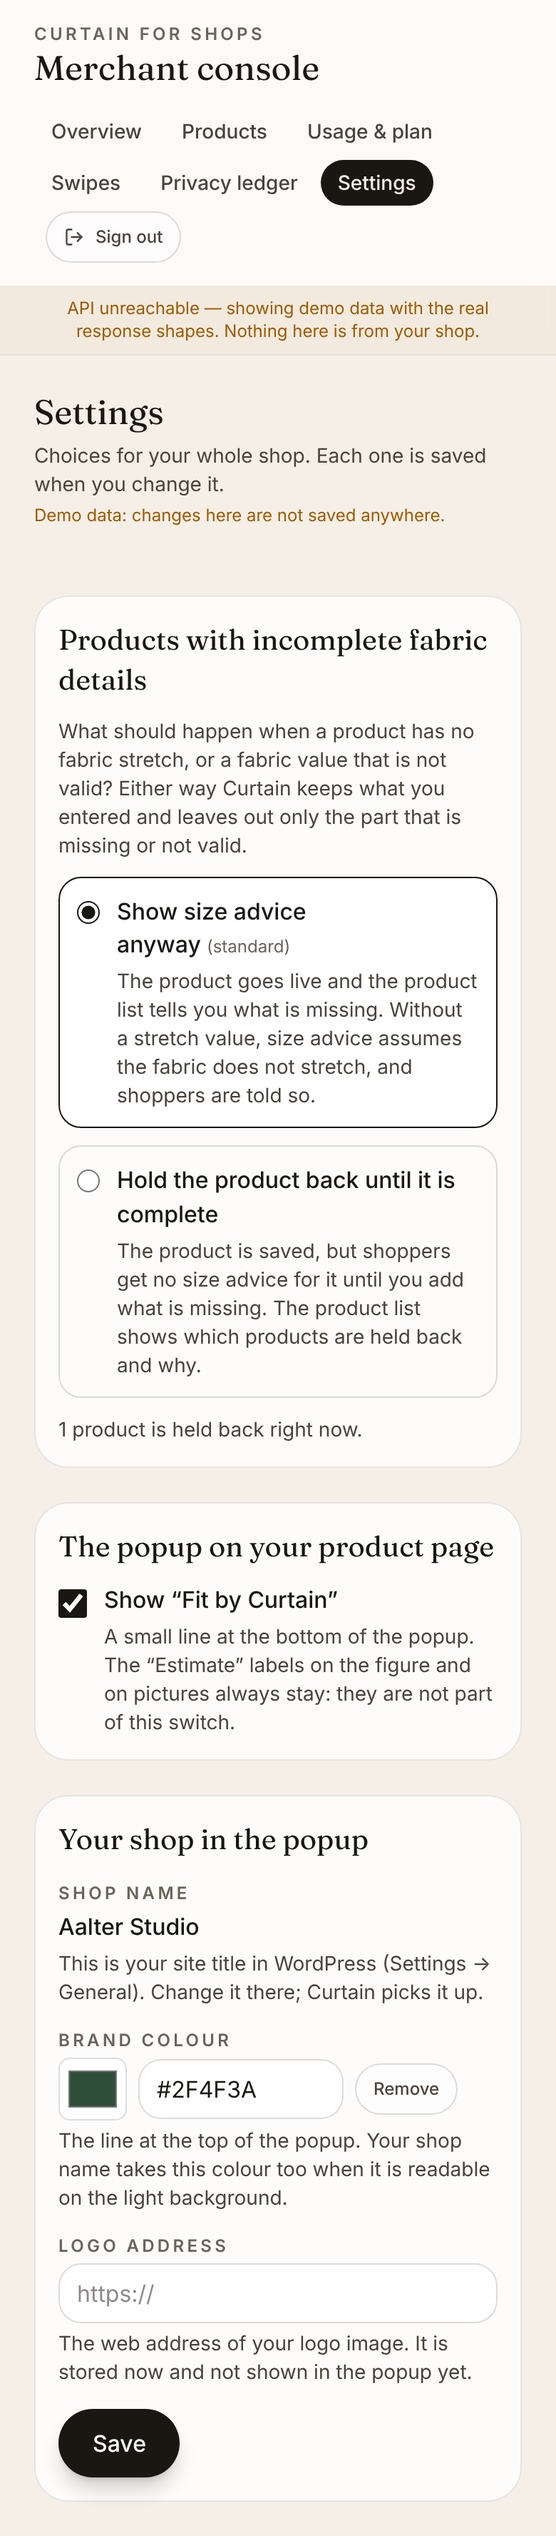
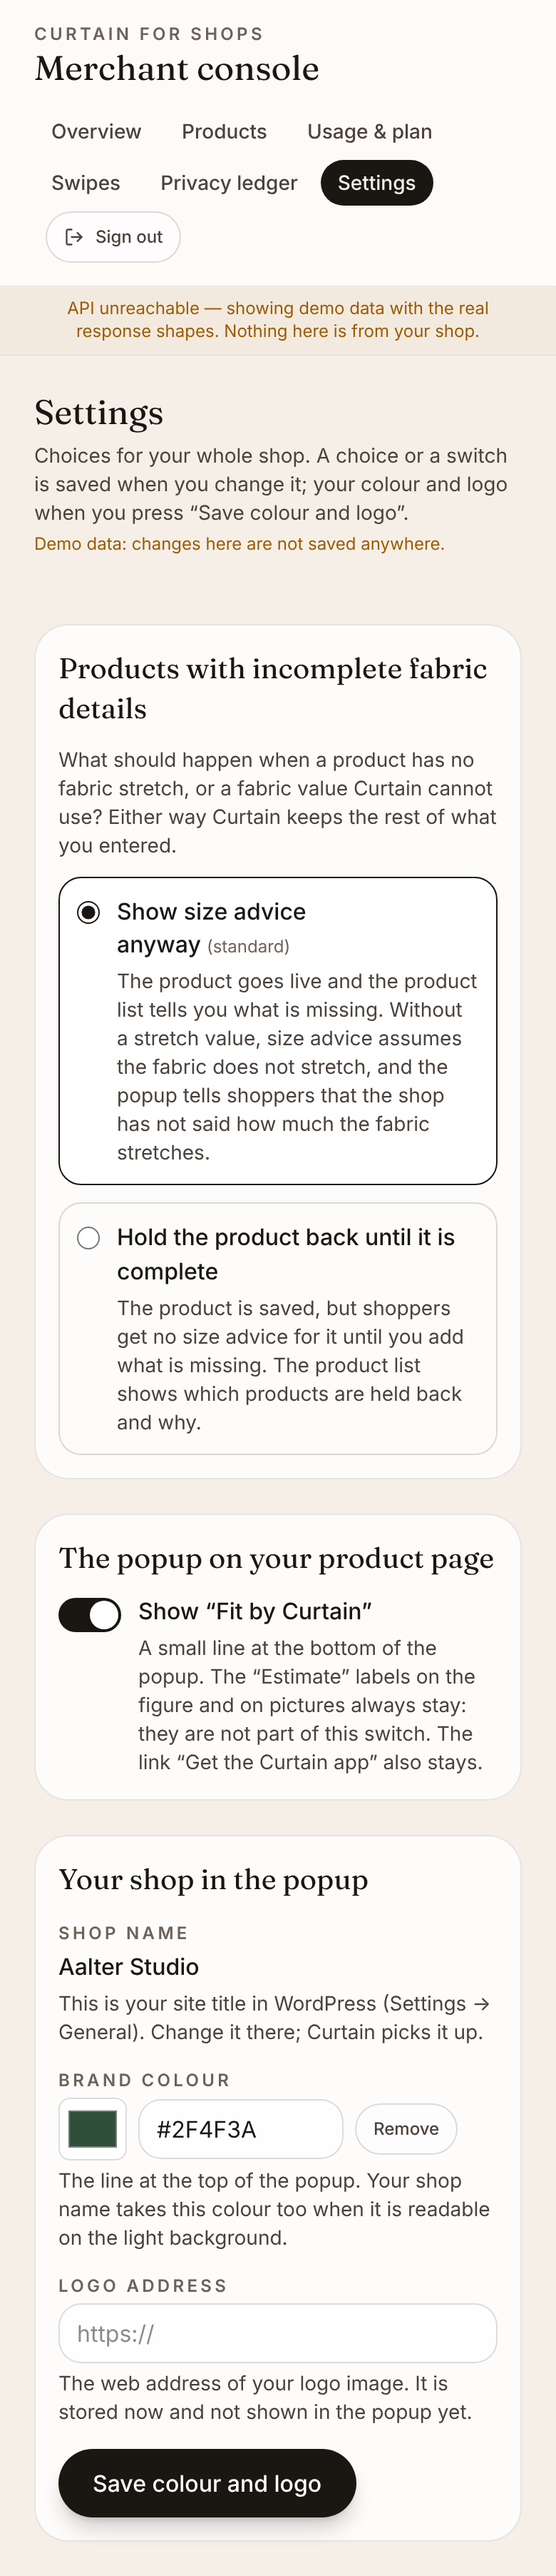
docs: screenshots of settings slice 1 retaken after the review; open issues OI-111 to OI-118; STATUS follows the slice
Claude-Session: https://claude.ai/code/session_0137s5bMAZBmWXYo2fF6Ys2b

diff --git a/docs/OPEN-ISSUES.md b/docs/OPEN-ISSUES.md
@@ -10,6 +10,7 @@ Compiled on 19 Nov 2026 from the reports listed below; issues that a later repor
 | head-v3 | `docs/reports/claude-head-v3.md` | Open issues, Verdict |
 | platform-checks | `docs/reports/claude-platform-checks.md` | Open issues |
 | ai-realism | `docs/reports/claude/ai-realism.md` | Not done, and why |
+| settings-slice1 | `docs/reports/claude/settings-slice1.md` | Measured versus assumed, Not done |
 | analytics-kfloor | `docs/reports/claude/analytics-kfloor.md` | Measured, assumed, not covered; Other open findings of the launch-readiness report |
 | bake-qa-gate | `docs/reports/claude/bake-qa-gate.md` | Measured, assumed, not done; Open issues |
 | face-2d | `docs/reports/claude/face-2d-slice5.md` | Assumed, not measured; Honest look; Open issues |
@@ -34,7 +35,7 @@ Marks: **needs-founder** (a decision or an action only the founder can take), **
 **needs-real-device** (needs a real phone, real GPU, paid provider, real Shopify store, real VPS, real garment or real volunteers),
 **engineering** (can be done in the repository). Each row has exactly one mark. "Size" is a guess.
 
-Counts: needs-founder 18, needs-counsel 7, needs-real-device 16, engineering 68. Total 109 open rows.
+Counts: needs-founder 17, needs-counsel 8, needs-real-device 16, engineering 75. Total 116 open rows.
 
 ## needs-founder
 
@@ -49,7 +50,6 @@ Counts: needs-founder 18, needs-counsel 7, needs-real-device 16, engineering 68.
 | OI-07 | Pilot price arrangement: a custom app cannot bill through Shopify, so write down with the merchant either a free pilot or USD 8.99 a month invoiced outside Shopify. Trial length (`BILLING_TRIAL_DAYS`, default 7) is only needed for public billing. | open | STATUS (pilot table, decision 8), launch-readiness (F8) |
 | OI-08 | `@curtain/sdk` is `UNLICENSED` but ships inside a WordPress.org plugin, which must be GPL-compatible (#14). A founder and legal call, needed before a WP.org listing. | open | STATUS (decision 8, Known gaps) |
 | OI-09 | The WooCommerce plugin slug `curtain-woocommerce` breaks the WordPress.org trademark rule (Plugin Check warning). Decide a new slug before listing. | open | platform-checks |
-| OI-10 | WooCommerce: a product with a fabric but no drape is refused as a whole (400). The merchant now sees why. Decide whether the payload builder should leave out an incomplete fabric instead. | open | platform-checks |
 | OI-11 | A WooCommerce merchant cannot get into the merchant console alone: Connect stores the secret key encrypted and never shows it, and the console asks for it. Decide: a one-time console link from the plugin, or show the key once. | open | merchant-onboarding (1) |
 | OI-12 | WooCommerce Disconnect only clears local settings; it does not cancel billing or delete the shop on the api. A `DELETE /v1/merchant/shops/self` with a Stripe cancel would close it; decide whether deletion is immediate or delayed. | open | merchant-onboarding (2) |
 | OI-13 | Lighting and skin shading defaults. D22 keeps `classic` lighting until the founder approves a change. Under `classic` the male under-jaw of head v3 is 13–14 L\* dark and Monk 1–3 stay grey-white; `neutral-v2` fixes both. skin-v2 is ready for the look review and is off by default. Both reports recommend deciding after one real-phone check. | open | head-v3 (1, Verdict), skin-v2 (1, Verdict) |
@@ -70,6 +70,7 @@ Counts: needs-founder 18, needs-counsel 7, needs-real-device 16, engineering 68.
 | OI-22 | The men's body size-chart templates are held back for legal review. Two blank men's garment templates are offered; the body templates are not. | open | men-admin-columns, STATUS (What is built) |
 | OI-23 | What the MediaPipe usage-log message (`odml.pa.googleapis.com/v1/log`) holds was never decoded (from the code: task type, running mode, timings). It is now refused twice, but it deserves a line in the privacy terms review. | open | privacy-wall (5), face-on-head |
 | OI-24 | Licence confirmations made by an agent, not a lawyer: the Anny row in `docs/LICENSES.md` comes from the spike's tool table, not the upstream licence file; the Monk swatch values and licence were checked against Wikipedia's citation, not Google's page; licences beyond the two MediaPipe sources were not read at source. | open | analytics-kfloor, skin-v2 (7), face-on-head (Assumed) |
+| OI-111 | `docs/legal/terms.md` (paused plan: the button is hidden) and `docs/legal/privacy.md` (no age range is asked) were edited in claude/settings-slice1 to follow D25 points 5 and 6. The wording has not had the review of D20 point 4 and must not ship as final before it. | open | settings-slice1 (Not done) |
 
 ## needs-real-device
 
@@ -164,6 +165,13 @@ Counts: needs-founder 18, needs-counsel 7, needs-real-device 16, engineering 68.
 | OI-107 | With length held, a free-hanging skirt shows less difference between sizes: on the dress, AU 8 against 16 at the hip 52 → 21 % of the graded spread, 10 cm lower 48 → 22 %; forced on, the skirt stand-in's hem 53 → 14 %. The hip balloon of before stood on the extra length. R3 needs the cut's own flare or a calibrated drape, not stretch. | medium | open | cloth-hang (Measured, 1) |
 | OI-108 | The tape-built dress still needs its three holds with length held (seam 98.6 cm for a tape of 86 without the loop; top edge 3.1 cm lower without the held band). The gathering row now carries the skirt: stitch strain up to 9 %, the row 7 % short (was 5 to 6 %), and thin slits open between the folds under the seam (body pixels through the skirt 0 to 33 → 0 to 71 per four views). The seam loop and the hang lines pull against each other by 0.2 to 0.3 cm of seam girth. | medium | open | dress-from-tape (1), cloth-hang (Did it remove a hint?, 3, 4, 5) |
 | OI-109 | Hold length was not measured on the real photo-reconstructed bundles (skirt, azure dress, palazzo: `out/eval/` is git-ignored; stand-ins were used) and is off for them. Forced on, the men's tee gets a higher peak strain (25.8 to 30.2 → 38.0 to 64.6 %) and stops settling early, so a sewn top must not get it as built. The spike viewer's `cloth.ts` has no hang lines. | small | open | cloth-hang (7, 8, 11) |
+| OI-112 | The size peek next to the button shows a size computed with an assumed 0 % stretch without saying so: `GET /v1/peek` does not carry `stretchAssumed` and the peek's box is a fixed 112 px. The popup says it; the Settings text now says "the popup tells shoppers". | small | open | settings-slice1 (Not done) |
+| OI-113 | The warnings of the two product builders (`mappings/common.ts` and the PHP twin, among them "…; the value was left out") are English sentences written in the mapping code, in no catalogue (D21). The WooCommerce product screen and the console no longer show the validator's text for a left-out fabric value; every other place a builder warning is shown was not traced. | medium | open | settings-slice1 (Not done) |
+| OI-114 | The SDK is 8,187 B gzip of an 8,192 B budget (5 B left) after the paused-shop change; one console warning was shortened to fit. The next SDK change needs bytes taken out or the budget raised. | small | open | settings-slice1 (Measured) |
+| OI-115 | The button printed hidden (`hidden` on `.curtain-try`, shown by the SDK) is tested in jsdom and by reading the markup only. Not looked at on a real Shopify theme or WooCommerce theme: first paint, a theme rule that sets `display` on the wrapper, the theme editor, a page cache that serves old markup with a new SDK. | small | open | settings-slice1 (Not done) |
+| OI-116 | `PUT /shopify/products/:id/chart` now keeps the fabric parts the product already has. So when a description names another fibre than the stored one, the old stretch and drape stay with the new name, and the import form does not say the product already has a fabric. Costs one more Admin API read per write that carries a fabric. | small | open | settings-slice1 (Not done) |
+| OI-117 | The console asks for a logo address and stores it; the popup does not draw it. Either draw it or take the field out. | small | open | settings-slice1 (Not done) |
+| OI-118 | A held-back product on the hero-render and AI-realism routes is tested through `asGarment` and the app's product route, not by a request to those two routes. A `fabric` sent as `null`, a list or text is still a 400 on the merchant PUT (request validation); the PHP builder never sends one. | small | open | settings-slice1 (Not done) |
 
 ## Resolved since reported
 
@@ -186,3 +194,5 @@ Counts: needs-founder 18, needs-counsel 7, needs-real-device 16, engineering 68.
 | The gate fixture `packages/garment-viewer/fixtures/pom-v2-rest` drapes AU 8 on hip 104. | orchestrator brief | pom-gate review: fixture rebuilt with the bake's plan | verified: `base.glb` declares AU 8 `notDraped` with `rule: 'pull-on'` on hips 99, 104, 109 and 114, draped on 94 only |
 | The bake gate does not check pull-on against the tape. | orchestrator brief | pom-gate review: `refusals_declared` in `bakeGate.ts` runs the fit engine's `pullOnCheck` with the tape's stretched band on every draped body and every `pull-on` refusal | verified: code read, `bakeGate.test.ts` passes (two pull-on cases). A refusal with another reason is still only required to state one (OI-56) |
 | The not-drawn rule covered sewn tops only; every other bundle drew a stretched garment on a body it does not close on (was OI-95). Also: the tape-built dress too small was drawn stretched. | men-tee-v2, dress-from-tape (3) | dress-not-drawn: one rule for every garment from the fit engine's `wearBlock` (`packages/garment-viewer/src/notDrawn.ts`, `apps/web/src/embed/notDrawn.ts`), in 3D and on the 2D figure | verified: unit tests per garment, `dressNotDrawn.spec.ts` in the built embed, the dress, tee and chino in the real stack. Not seen in a browser on the azure dress, photo skirt or the bake (OI-101) |
+| WooCommerce: a product with a fabric but no drape was refused as a whole (400) (was OI-10). | platform-checks | settings-slice1, D24 point 4 and D25 point 1: draft fabric parts are optional, only a part that is not valid is left out, and the shop chooses let through or hold back | verified: `apps/api/src/incomplete-fabric.test.ts` (plain api, Shopify mapping, WooCommerce payload), PHP parity fixtures |
+| A paused shop kept its button and showed a "shop paused" screen (D7); the first screen asked an age range nothing used. | D25 points 5 and 6 | settings-slice1: the SDK hides the button, printed hidden by both plugins; the question is gone | verified in tests (`packages/sdk/src/paused.test.ts`, `apps/web/src/embed/__tests__/settingsSlice1.test.tsx`); not seen on a real theme (OI-115) |

diff --git a/docs/STATUS.md b/docs/STATUS.md
@@ -49,13 +49,13 @@ shoppers see.
 |---|---|
 | `@curtain/fit-engine` | Pure, zero runtime dependencies, on-device only (rule 4). Pull-on check and waist reading from a measured band (merchant tape). Men's fit (M2a/M2b, merged): neck, sleeve, body length, rise, W/L sizes, men's eases, all gated on `audience: 'men'`; every women's and unisex chart reads byte for byte as before. Every men's number is assumed until three real charts per block are read |
 | `@curtain/schema` | Wire types; garment payload; optional garment tape per size with provenance; size-chart templates (AU women's; two blank men's garment templates, tee and chino W/L; the men's body templates held back for legal review); men's chart columns (`chartColumns.ts`), read by both merchant builders; audience inference |
-| SDK (`@curtain/sdk`) | Button → overlay iframe on `/embed/<token>`, exact-origin postMessage, variant selection for Dawn and WooCommerce, size peek (fixed 112 px, no shopper data). 8,057 B gzip of an 8,192 B budget |
-| Embed (`apps/web` `/embed`) | About you, optional scan, result with avatar and size rings, "Choose size", Remember me / Forget me, avatar prompt with neutral face and skin-tone picker (colour stays in memory), optional 3D estimate (viewer chunk 165.9 KB gzip of 400 KB). Face photo off in builds (`VITE_AVATAR_FACE_PHOTO`), hero render hidden (the api does not send `heroRenders`). Men's garments: About you asks chest, waist, seat, inside leg, neck, sleeve; the result names the men's points and W/L. A W/L result whose leg could not be checked names the waist in the heading, the fit panel, the 3D label and the size peek (this branch). A size whose band does not go over the shopper's hips is not drawn in 3D and the note says why. Interface text: every string of `apps/web` is in a catalogue (this branch, see "Interface language") |
-| api (`apps/api`) | Fastify 5, Postgres 16, pg-boss. Devices, try tokens, fit-shown billing event, peek, merchant API (HMAC/Bearer/session token), analytics with a k floor in closed, frozen calendar months with complementary suppression (D23), Shopify (token exchange, webhooks incl. GDPR, metafields, chart builder, garment tape), Stripe Connect path for Woo, asset import with the automatic bake check (9 checks; a failing bake is refused with a plain reason, pull-on recomputed from the tape) and merchant approval, men's gate (`MEN_3D_GATE`), hero render jobs (avatar image only), the AI realism route (`AI_REALISM`, fake provider only so far), `GET/PUT /v1/merchant/setup` (the five-step checklist). The request log carries route patterns only (L1) |
-| Shopify app | Embedded admin page with the "Get set up" checklist, chart builder (men's columns and W/L included) and tape entry, "Try it on" theme block, `shopify-deploy` workflow. Offline contract harness against a fake Shopify, requests validated against the real 2026-10 Admin schema (9 Nov) |
-| WooCommerce plugin | "Get set up" box, meta box with chart templates (men's columns and W/L included) and tape, PK-HMAC push via Action Scheduler, bundled SDK button under the variation form, Connect with domain proof, uninstall. PHP 8.1+, WordPress 6.6+, WooCommerce 9.0+ |
+| SDK (`@curtain/sdk`) | Button → overlay iframe on `/embed/<token>`, exact-origin postMessage, variant selection for Dawn and WooCommerce, size peek (fixed 112 px, no shopper data). A paused shop shows no button (D25 point 5): the plugins print the button hidden and the SDK shows it after `GET /v1/sdk/shop` says the plan is not paused. 8,187 B gzip of an 8,192 B budget (OI-114) |
+| Embed (`apps/web` `/embed`) | About you, optional scan, result with avatar and size rings, "Choose size", Remember me / Forget me, avatar prompt with neutral face and skin-tone picker (colour stays in memory), optional 3D estimate (viewer chunk 165.9 KB gzip of 400 KB). Face photo off in builds (`VITE_AVATAR_FACE_PHOTO`), hero render hidden (the api does not send `heroRenders`). Men's garments: About you asks chest, waist, seat, inside leg, neck, sleeve; the result names the men's points and W/L. A W/L result whose leg could not be checked names the waist in the heading, the fit panel, the 3D label and the size peek (this branch). A size whose band does not go over the shopper's hips is not drawn in 3D and the note says why. Interface text: every string of `apps/web` is in a catalogue (this branch, see "Interface language"). Settings slice 1 (20 Nov): no age-range question, one line under the size when the shop gave no fabric stretch, "Fit by Curtain" hidden when the shop switched it off (the estimate labels stay) |
+| api (`apps/api`) | Fastify 5, Postgres 16, pg-boss. Devices, try tokens, fit-shown billing event, peek, merchant API (HMAC/Bearer/session token), analytics with a k floor in closed, frozen calendar months with complementary suppression (D23), Shopify (token exchange, webhooks incl. GDPR, metafields, chart builder, garment tape), Stripe Connect path for Woo, asset import with the automatic bake check (9 checks; a failing bake is refused with a plain reason, pull-on recomputed from the tape) and merchant approval, men's gate (`MEN_3D_GATE`), hero render jobs (avatar image only), the AI realism route (`AI_REALISM`, fake provider only so far), `GET/PUT /v1/merchant/setup` (the five-step checklist). The request log carries route patterns only (L1). Settings slice 1: a fabric with a missing or not-valid part is stored without that part and reported (`notices`); the shop setting `incompleteProductData` lets such a product through (standard) or holds it back (stored, 200, served on no shopper route); `GET`/`PUT /v1/merchant/settings`; a bad product no longer stops a Shopify backfill page |
+| Shopify app | Embedded admin page with the "Get set up" checklist, chart builder (men's columns and W/L included) and tape entry, "Try it on" theme block, `shopify-deploy` workflow. Offline contract harness against a fake Shopify, requests validated against the real 2026-10 Admin schema (9 Nov). The description import saves fibre names only (the stretch estimate is an unticked suggestion) and a fabric write keeps the parts the product already has |
+| WooCommerce plugin | "Get set up" box, meta box with chart templates (men's columns and W/L included) and tape, PK-HMAC push via Action Scheduler, bundled SDK button under the variation form, Connect with domain proof, uninstall. PHP 8.1+, WordPress 6.6+, WooCommerce 9.0+. Stretch and drape are not required; the product screen shows what Curtain left out or assumed, in its own words |
 | Garment engine (3D) | Spike + `@curtain/garment-viewer`: bundles on female and male mannequins (male bundles only on the male body), drape control, per-size measured waistbands, POM v2 server-drape bake blended on the device, look v2. The real POM v2 skirt bake passes the import's bake check (9 of 9) after the pull-on plan: a size is draped only on bodies its band goes over. Male mannequin (v1 default, v2 behind a flag), a synthetic men's tee built from flat measurements (v2: chest ease kept, sizes too small not drawn, UVs and a generated print); nothing measured on a real tee. Head `neutral-v3` is the default head (D22). Bundles are imported by hand and need merchant approval (D13, D16). No GPU runs in this session. Other sessions are adding garment builders now |
-| Merchant console (`apps/web` `/merchant`) | Checklist, products, monthly analytics with the reason a row is hidden, 3D review per version (what the check found, where each size's tape comes from, approve or reject), leaving Curtain |
+| Merchant console (`apps/web` `/merchant`) | Checklist, products, monthly analytics with the reason a row is hidden, 3D review per version (what the check found, where each size's tape comes from, approve or reject), leaving Curtain; Settings page (incomplete fabric details, "Fit by Curtain", colour, logo address) and, in the product list, what a save left out and which products are held back |
 | Server stack (`infra/`) | Caddy 2.9 (TLS, CSP with `connect-src 'self' <api>` on every response of the app origin, worker scripts included, `/embed` the only framable route, `/assets` immutable), api, Postgres; one-click deploy with automatic rollback; nightly encrypted backups with a restore drill |
 | Site (`apps/site`) | Static marketing site; the release build refuses while its launch gates are open (company identity, mailbox, legal review of the waitlist notice, partner sign-offs), so `curtain.fit` answers 404 until then |
 

diff --git a/docs/screens/claude/settings-slice1/README.md b/docs/screens/claude/settings-slice1/README.md
@@ -1,19 +1,23 @@
 # Settings slice 1: the console and the popup
 
-Phone size (390 × 844 CSS px, deviceScaleFactor 2). Made with `apps/web/scripts/settings-slice1-shots.mjs`
-against a dev build. The console shows its demo data (the api is not reachable in the script) and the
-popup uses `mock:` tokens, so nothing here comes from a real shop.
+Phone size (390 × 844 CSS px, deviceScaleFactor 2) unless the row says otherwise. Made with
+`apps/web/scripts/settings-slice1-shots.mjs` against a dev build. The console shows its demo data (the api is not
+reachable in the script) and the popup uses `mock:` tokens, so nothing here comes from a real shop. Retaken on
+20 Nov 2026 after the review.
 
 | File | What it shows |
 |---|---|
-| `01-settings-page.png` | The Settings page: incomplete fabric details (two choices, "show size advice anyway" is the standard), the "Fit by Curtain" switch, shop name, colour and logo. |
-| `02-settings-hold-back-wordmark-off.png` | The same page after choosing "hold back" and switching the wordmark off; "Saved." |
-| `03-products-notice-and-held-back.png` | The product list: a stretch value that was left out, a product without a stretch, and a held-back product with its reason and a link to the setting. |
-| `04-popup-stretch-line.png` | The popup's result with the line "…this size advice does not take stretch into account." |
+| `01-settings-page.png` | The Settings page under the standard choice ("Show size advice anyway"): no "held back" count, the "Fit by Curtain" switch on, shop name, colour, logo address, "Save colour and logo". |
+| `02-settings-hold-back-wordmark-off.png` | The same page after choosing "hold back" and switching the wordmark off: "Saved.", "2 products are held back right now." |
+| `03-products-notices.png` | The product list under the standard choice: a stretch that was entered but left out (one line, with what size advice assumes), and a product without a stretch. |
+| `03b-products-held-back.png` | The product list under "hold back": two held-back products, the reason and the link to the setting. At this width only the Product and Kind columns are on screen. |
+| `03c-products-held-back-wide.png` | The same list at 1280 px wide: the "Held back" chip and the next-step column. |
+| `04-popup-stretch-line.png` | The popup's result for a product without a stretch value: "…this size advice does not take stretch into account." |
 | `05-popup-about-with-wordmark.png` | The popup's first screen, no age-range question, with "Fit by Curtain". |
 | `06-popup-about-without-wordmark.png` | The same screen for a shop that switched "Fit by Curtain" off. |
-| `07-popup-result-without-wordmark.png` | The whole result for that shop: no wordmark, the estimate labels are still there. |
+| `07-popup-result-without-wordmark.png` | The top of the result for that shop (one phone screen): "Estimate · not measured" on the figure. |
+| `08-popup-result-end-without-wordmark.png` | The end of the same result: the estimate line, no "Fit by Curtain", "Get the Curtain app" still there. |
 
-In `04` the demo garment itself has a stretch value and a stretch zone, so the fit panel says
-"stretch fabric there" under the new line. That is the `mock:nostretch:` token setting only the
-flag; a real product without a stretch value has stretch 0 in the garment the popup receives.
+`04` and `07` are the same demo dress and the same answers (168 cm, 62 kg). In `04` the garment has stretch 0 and no
+marked stretchy part, as the api sends a product without a stretch value; the advice is L. In `07` the garment has
+its own 2 % stretch and a marked waist tie; the advice is M. So for this shopper the missing stretch value and stretchy part together moved the advice one size up (which of the two does it was not separated).
